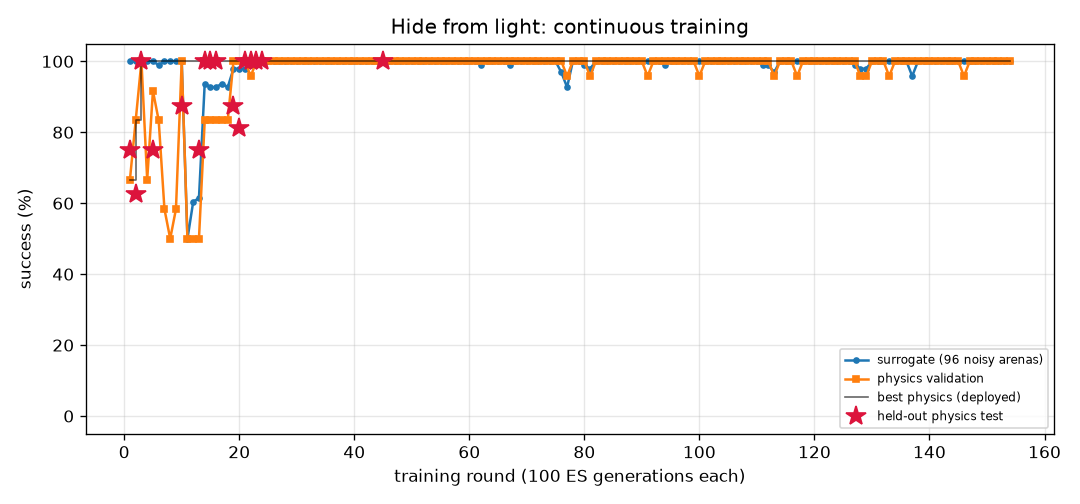
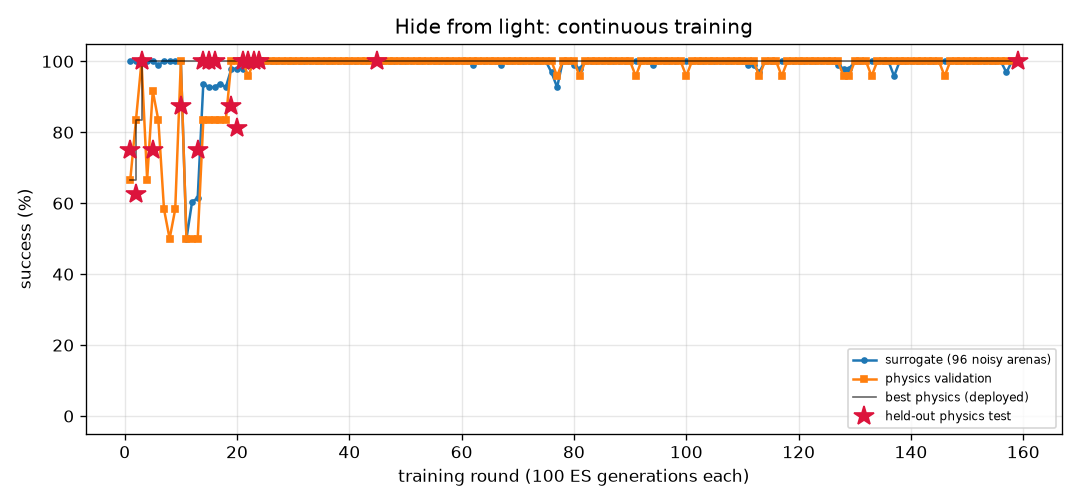
FlyLab: continuous training progress
- walk_forward: optimal, physics val 100% of 24, round 72
- turn: optimal, physics val 100% of 24, round 275
- goto: optimal, physics val 100% of 24, round 68
- odor_seek: optimal, physics val 100% of 24, round 81
- odor_avoid: optimal, physics val 100% of 24, round 374
- light_seek: optimal, physics val 100% of 24, round 254
- light_avoid: optimal, physics val 100% of 24, round 159

diff --git a/projects/09_flylab/training/light_avoid/REPORT.md b/projects/09_flylab/training/light_avoid/REPORT.md
@@ -1,27 +1,22 @@
 # Hide from light (`light_avoid`) — training report
 
-*Auto-generated by `train_brains.py`, last updated 2026-10-09T22:40:44.*
+*Auto-generated by `train_brains.py`, last updated 2026-10-10T20:18:49.*
 
 ![curve](curve.png)
 
 | | |
 |---|---|
-| rounds | 154 |
-| ES generations | 15400 |
-| physics runs | 3936 |
+| rounds | 159 |
+| ES generations | 15900 |
+| physics runs | 4088 |
 | status | **optimal** |
-| best brain | round 45: physics validation **100%** on 24 arenas, surrogate 100% |
-| held-out physics test | **100%** on 32 unseen arenas (95% CI 89%-100%) (errors: [14.4, 28.9, 31.6, 32.2, 31.9, 13.9, 14.5, 34.1, 33.7, 13.3, 14.0, 31.3, 31.1, 13.1, 32.4, 33.8, 32.9, 32.2, 31.7, 32.0, 29.0, 12.3, 31.9, 33.2, 14.2, 13.7, 33.6, 32.5, 33.2, 13.2, 28.1, 33.7]) |
+| best brain | round 159: physics validation **100%** on 24 arenas, surrogate 100% |
+| held-out physics test | **100%** on 32 unseen arenas (95% CI 89%-100%) (errors: [14.4, 56.1, 58.0, 57.9, 57.5, 14.0, 14.4, 56.6, 56.8, 13.3, 14.1, 56.6, 57.6, 13.1, 57.3, 55.9, 57.2, 55.0, 55.2, 53.9, 55.2, 12.4, 53.8, 53.7, 14.1, 13.7, 55.0, 57.8, 56.2, 13.1, 52.8, 56.5]) |
 
 Physics error per arena: mm gained away from source (> 6 without first approaching it = success).
 
 | round | level | gens | sigma | surrogate | physics val | val errors | test | note |
 |---:|---:|---:|---:|---:|---:|---|---:|---|
-| 115 | 3 | 11500 | 0.024 | 100% | 100% | [39.3, 39.6, 38.6, 40.0, 42.9, 39.3, 37.0, 14.5, 34.1, 13.3, 42.1, 43.1, 14.4, 41.3, 39.2, 42.2, 14.2, 43.0, 39.8, 14.4, 37.8, 41.2, 36.6, 43.1] |  |  |
-| 116 | 3 | 11600 | 0.024 | 100% | 100% | [47.2, 47.8, 47.2, 48.4, 51.1, 47.0, 45.2, 14.5, 50.3, 13.3, 51.7, 51.3, 14.4, 51.2, 47.1, 47.5, 14.2, 51.0, 48.3, 14.4, 44.3, 51.2, 46.1, 52.2] |  |  |
-| 117 | 3 | 11700 | 0.024 | 100% | 96% | [51.0, 52.8, 52.5, 51.8, 52.4, 50.1, 51.3, 14.5, 41.6, 13.3, 51.3, 52.1, 14.4, 52.3, 52.7, 50.7, 14.2, 52.8, 53.2, 14.4, 51.1, 50.9, 51.0, 51.7] |  | restart from best |
-| 118 | 3 | 11800 | 0.024 | 100% | 100% | [38.0, 39.4, 39.4, 37.8, 36.9, 38.4, 38.8, 14.5, 34.7, 13.2, 38.3, 36.5, 14.4, 39.8, 39.4, 37.6, 14.2, 37.6, 39.6, 14.4, 36.2, 38.0, 38.4, 35.7] |  |  |
-| 119 | 3 | 11900 | 0.024 | 100% | 100% | [45.4, 44.8, 44.0, 45.8, 46.4, 45.1, 42.4, 14.5, 45.1, 40.5, 46.5, 46.3, 14.4, 44.8, 43.8, 46.2, 14.2, 46.4, 44.0, 14.4, 45.3, 46.4, 43.4, 46.1] |  |  |
 | 120 | 3 | 12000 | 0.024 | 100% | 100% | [51.3, 52.8, 52.6, 51.5, 51.6, 50.8, 51.6, 14.5, 47.3, 13.3, 52.0, 51.3, 14.4, 49.9, 52.7, 51.0, 14.2, 52.1, 53.0, 14.4, 50.3, 51.9, 51.3, 50.8] |  |  |
 | 121 | 3 | 12100 | 0.024 | 100% | 100% | [46.7, 47.4, 47.1, 47.9, 49.0, 45.1, 44.9, 14.5, 44.8, 13.4, 48.1, 48.9, 14.4, 48.1, 47.0, 47.8, 14.2, 49.2, 47.0, 14.4, 46.4, 48.0, 45.6, 48.8] |  | restart from best |
 | 122 | 3 | 12200 | 0.024 | 100% | 100% | [30.3, 29.7, 29.1, 31.2, 31.2, 31.1, 27.8, 14.5, 29.2, 13.3, 30.5, 31.6, 14.4, 29.4, 29.8, 31.3, 14.2, 32.1, 29.7, 14.4, 28.7, 28.8, 26.5, 32.4] |  |  |
@@ -57,3 +52,8 @@ Physics error per arena: mm gained away from source (> 6 without first approachi
 | 152 | 3 | 15200 | 0.024 | 100% | 100% | [38.6, 41.5, 41.1, 41.0, 45.1, 40.6, 39.0, 14.5, 37.9, 13.2, 37.9, 45.0, 14.4, 40.8, 41.1, 39.2, 14.2, 44.5, 42.5, 14.4, 39.4, 38.6, 39.6, 45.4] |  |  |
 | 153 | 3 | 15300 | 0.024 | 100% | 100% | [50.5, 53.6, 53.3, 51.5, 53.2, 52.5, 52.0, 14.5, 50.7, 13.4, 52.1, 53.0, 14.4, 52.6, 53.4, 51.5, 14.2, 53.6, 54.0, 14.4, 51.4, 51.9, 51.7, 52.5] |  | restart from best |
 | 154 | 3 | 15400 | 0.024 | 100% | 100% | [44.2, 44.0, 43.9, 44.0, 38.7, 43.4, 44.6, 14.5, 37.4, 13.3, 40.2, 38.5, 14.4, 39.3, 44.2, 42.9, 14.2, 39.7, 43.8, 14.4, 42.5, 41.8, 44.1, 37.5] |  |  |
+| 155 | 3 | 15500 | 0.024 | 100% | 100% | [39.0, 38.2, 38.4, 38.8, 40.5, 40.3, 36.4, 14.5, 12.1, 13.3, 40.6, 39.7, 14.4, 40.6, 39.4, 38.5, 14.2, 39.9, 39.3, 14.4, 38.9, 41.4, 37.3, 40.1] |  |  |
+| 156 | 3 | 15600 | 0.024 | 100% | 100% | [56.1, 59.7, 59.4, 56.6, 58.6, 56.8, 58.4, 14.5, 54.3, 13.4, 58.6, 58.1, 14.4, 55.7, 59.6, 56.5, 14.2, 59.1, 59.9, 14.4, 57.0, 58.5, 58.2, 57.7] |  |  |
+| 157 | 3 | 15700 | 0.024 | 97% | 100% | [39.3, 42.7, 42.0, 41.8, 44.7, 42.3, 39.9, 14.5, 44.6, 13.2, 45.3, 45.2, 14.4, 46.4, 41.7, 36.1, 14.2, 45.1, 41.7, 14.4, 9.0, 45.6, 40.9, 45.1] |  | restart from best |
+| 158 | 3 | 15800 | 0.024 | 100% | 100% | [52.9, 57.7, 57.5, 54.7, 57.2, 54.6, 56.3, 14.5, 53.8, 48.5, 56.7, 57.0, 14.4, 54.9, 57.7, 55.6, 14.2, 57.7, 58.1, 14.4, 55.8, 56.9, 55.9, 56.4] |  |  |
+| 159 | 3 | 15900 | 0.024 | 100% | 100% | [52.3, 56.4, 55.7, 53.3, 57.8, 53.7, 53.9, 14.5, 54.5, 50.0, 56.5, 57.7, 14.4, 56.4, 56.4, 53.2, 14.2, 57.7, 57.2, 14.4, 53.8, 56.5, 54.5, 57.5] | 100% | new best |

diff --git a/projects/09_flylab/training/odor_avoid/REPORT.md b/projects/09_flylab/training/odor_avoid/REPORT.md
@@ -1,27 +1,22 @@
 # Escape a bad smell (`odor_avoid`) — training report
 
-*Auto-generated by `train_brains.py`, last updated 2026-10-10T19:41:13.*
+*Auto-generated by `train_brains.py`, last updated 2026-10-10T20:18:09.*
 
 ![curve](curve.png)
 
 | | |
 |---|---|
-| rounds | 369 |
-| ES generations | 36900 |
-| physics runs | 6130 |
+| rounds | 374 |
+| ES generations | 37400 |
+| physics runs | 6282 |
 | status | **optimal** |
-| best brain | round 352: physics validation **100%** on 24 arenas, surrogate 98% |
-| held-out physics test | **100%** on 32 unseen arenas (95% CI 89%-100%) (errors: [61.0, 57.0, 61.4, 59.6, 56.8, 61.2, 61.2, 60.8, 57.0, 60.5, 60.6, 56.7, 59.9, 61.1, 61.5, 59.8, 60.1, 54.8, 60.0, 54.0, 61.3, 60.1, 57.6, 61.3, 59.5, 56.5, 55.1, 44.6, 56.4, 58.2, 60.2, 19.1]) |
+| best brain | round 373: physics validation **100%** on 24 arenas, surrogate 97% |
+| held-out physics test | **97%** on 32 unseen arenas (95% CI 84%-99%) (errors: [62.0, 57.4, 62.6, 61.9, 59.0, 61.6, 56.5, 60.7, 31.7, 60.9, 63.1, 57.1, 61.1, 62.1, 61.5, 60.2, 62.2, 55.2, 62.1, 54.2, 61.3, 62.0, 58.0, 61.9, 59.8, 56.5, 56.3, 56.4, 56.3, 57.7, 61.9, 32.4]) |
 
 Physics error per arena: mm gained away from source (> 6 without first approaching it = success).
 
 | round | level | gens | sigma | surrogate | physics val | val errors | test | note |
 |---:|---:|---:|---:|---:|---:|---|---:|---|
-| 330 | 3 | 33000 | 0.028 | 94% | 96% | [62.9, 57.5, 57.0, 57.9, 61.5, 61.3, 61.7, 56.4, 59.9, 39.4, 61.2, 60.8, 53.0, 55.9, 34.6, 58.0, 61.3, 60.5, 54.5, 57.2, 61.1, 58.9, 57.2, 54.0] |  |  |
-| 331 | 3 | 33100 | 0.028 | 96% | 96% | [62.5, 56.7, 53.9, 56.8, 57.8, 52.8, 60.9, 58.1, 59.0, 36.9, 45.5, 59.1, 45.8, 53.9, 23.5, 54.7, 60.0, 45.1, 51.4, 56.3, 59.3, 58.4, 55.2, 61.0] |  | restart from best |
-| 332 | 3 | 33200 | 0.025 | 97% | 96% | [60.1, 59.4, 56.0, 58.7, 60.7, 49.9, 61.0, 3.4, 59.3, 13.0, 59.7, 61.3, 54.3, 55.6, 47.6, 60.7, 61.1, 27.0, 54.5, 59.0, 61.0, 21.8, 58.6, 12.0] |  |  |
-| 333 | 3 | 33300 | 0.026 | 98% | 96% | [59.1, 56.3, 55.3, 52.1, 35.5, 45.6, 57.3, 23.9, 57.7, 23.3, 3.5, 59.2, 48.0, 54.0, 28.8, 39.1, 59.3, 42.1, 48.9, 55.9, 59.1, 31.9, 56.1, 55.5] |  |  |
-| 334 | 3 | 33400 | 0.025 | 99% | 100% | [60.9, 60.3, 56.4, 59.9, 61.8, 60.1, 61.6, 41.4, 61.2, 46.9, 60.2, 61.3, 53.6, 56.3, 47.8, 61.4, 61.7, 60.9, 54.7, 59.6, 61.8, 60.7, 59.2, 59.0] |  |  |
 | 335 | 3 | 33500 | 0.025 | 96% | 100% | [60.3, 58.3, 55.8, 58.4, 61.2, 59.9, 61.6, 25.8, 61.2, 45.0, 34.8, 60.8, 49.6, 55.3, 17.2, 60.8, 61.3, 58.2, 53.2, 59.2, 61.2, 58.7, 60.0, 49.5] |  | restart from best |
 | 336 | 3 | 33600 | 0.025 | 94% | 92% | [61.3, 57.4, 56.1, 59.1, 57.6, 60.5, 61.7, 59.6, 61.7, 59.5, 36.1, 61.2, 38.0, 53.1, 19.3, 60.8, 60.8, 58.4, 49.8, 59.9, 61.0, 60.6, 59.5, 60.8] |  |  |
 | 337 | 3 | 33700 | 0.028 | 96% | 96% | [61.1, 58.1, 56.3, 58.8, 60.9, 59.7, 60.6, 49.5, 60.5, 53.8, 27.2, 60.7, 46.8, 56.0, 0.3, 61.1, 61.2, 59.3, 49.8, 57.9, 61.1, 59.9, 59.3, 59.3] |  |  |
@@ -57,3 +52,8 @@ Physics error per arena: mm gained away from source (> 6 without first approachi
 | 367 | 3 | 36700 | 0.026 | 93% | 96% | [62.8, 58.5, 57.6, 58.0, 62.0, 62.3, 61.3, 58.6, 60.7, 61.3, 61.8, 60.8, 54.3, 55.4, 39.5, 61.9, 61.2, 60.8, 54.8, 55.9, 60.7, 61.6, 57.8, 55.2] |  |  |
 | 368 | 3 | 36800 | 0.028 | 94% | 96% | [61.5, 60.3, 57.0, 59.2, 60.1, 60.2, 61.7, 33.9, 61.8, 23.9, 53.0, 60.8, 51.7, 55.3, 39.5, 59.2, 61.1, 44.7, 54.2, 60.1, 61.3, 40.0, 60.8, 36.2] |  |  |
 | 369 | 3 | 36900 | 0.028 | 97% | 96% | [60.6, 60.0, 55.8, 60.3, 61.0, 60.9, 61.7, 27.7, 61.2, 41.0, 52.3, 61.1, 50.7, 55.0, 32.6, 59.7, 61.7, 58.3, 54.0, 59.3, 61.4, 57.4, 56.9, 60.7] |  | restart from best |
+| 370 | 3 | 37000 | 0.025 | 97% | 100% | [62.0, 60.4, 56.1, 59.8, 62.1, 61.9, 61.5, 44.6, 62.0, 33.0, 60.1, 61.7, 51.2, 53.9, 25.1, 60.4, 61.9, 61.4, 54.9, 59.5, 61.7, 52.9, 57.3, 38.4] |  |  |
+| 371 | 3 | 37100 | 0.026 | 97% | 96% | [61.3, 57.8, 56.1, 60.7, 61.2, 61.8, 60.0, 33.4, 61.6, 31.6, 59.5, 61.6, 51.5, 55.1, 33.9, 61.0, 61.5, 53.4, 54.6, 56.8, 61.5, 44.3, 59.5, 49.6] |  |  |
+| 372 | 3 | 37200 | 0.026 | 96% | 96% | [62.2, 59.2, 56.0, 60.7, 61.0, 60.0, 62.0, 11.0, 62.0, 20.2, 41.5, 61.4, 49.8, 55.9, 40.4, 59.6, 61.9, 39.9, 50.4, 56.9, 61.4, 36.0, 60.0, 29.9] |  |  |
+| 373 | 3 | 37300 | 0.026 | 97% | 100% | [62.8, 61.0, 56.0, 61.4, 59.3, 52.0, 60.9, 61.9, 61.9, 42.1, 39.7, 62.1, 48.3, 55.3, 33.2, 61.0, 61.6, 43.5, 51.5, 59.7, 61.0, 61.1, 59.9, 62.7] | 97% | new best |
+| 374 | 3 | 37400 | 0.026 | 94% | 100% | [62.6, 60.9, 56.0, 55.6, 60.0, 59.6, 60.6, 37.3, 61.2, 59.6, 53.5, 61.4, 50.6, 53.6, 19.1, 61.5, 62.0, 61.8, 55.1, 59.1, 61.5, 60.4, 59.9, 62.2] |  |  |

diff --git a/projects/09_flylab/training/TRAINING.md b/projects/09_flylab/training/TRAINING.md
@@ -1,6 +1,6 @@
 # FlyLab brains — continuous training log
 
-*Auto-generated by `train_brains.py`, last updated 2026-10-10T19:41:47.*
+*Auto-generated by `train_brains.py`, last updated 2026-10-10T20:18:49.*
 
 Every skill has its own brain and its own training process: surrogate ES rounds, physics validation in MuJoCo, keep-the-best selection, and a held-out physics test that is never used for selection. See each skill's report for its full round-by-round history. Mastery is progressive: passing a level (100% physics validation, >=95% surrogate) doubles the validation and test arena sets; a brain is **optimal** once it holds up at level 3 (>=95% of 24 validation arenas) AND scores >=90% on the 32 held-out test arenas. Test columns show 95% Wilson confidence intervals.
 
@@ -10,6 +10,6 @@ Every skill has its own brain and its own training process: surrogate ES rounds,
 | [Turn in place](turn/REPORT.md) | 275 | 27500 | 6846 | 100% | 100% of 24 | 97% of 32 (CI 84-99%) | **optimal** |
 | [Go to a location](goto/REPORT.md) | 68 | 6800 | 1422 | 100% | 100% of 24 | 100% of 32 (CI 89-100%) | **optimal** |
 | [Find food by smell](odor_seek/REPORT.md) | 81 | 8100 | 1246 | 100% | 100% of 24 | 100% of 32 (CI 89-100%) | **optimal** |
-| [Escape a bad smell](odor_avoid/REPORT.md) | 369 | 36900 | 6130 | 98% | 100% of 24 | 100% of 32 (CI 89-100%) | **optimal** |
+| [Escape a bad smell](odor_avoid/REPORT.md) | 374 | 37400 | 6282 | 97% | 100% of 24 | 97% of 32 (CI 84-99%) | **optimal** |
 | [Walk toward light](light_seek/REPORT.md) | 254 | 25400 | 2848 | 100% | 100% of 24 | 100% of 32 (CI 89-100%) | **optimal** |
-| [Hide from light](light_avoid/REPORT.md) | 154 | 15400 | 3936 | 100% | 100% of 24 | 100% of 32 (CI 89-100%) | **optimal** |
+| [Hide from light](light_avoid/REPORT.md) | 159 | 15900 | 4088 | 100% | 100% of 24 | 100% of 32 (CI 89-100%) | **optimal** |
